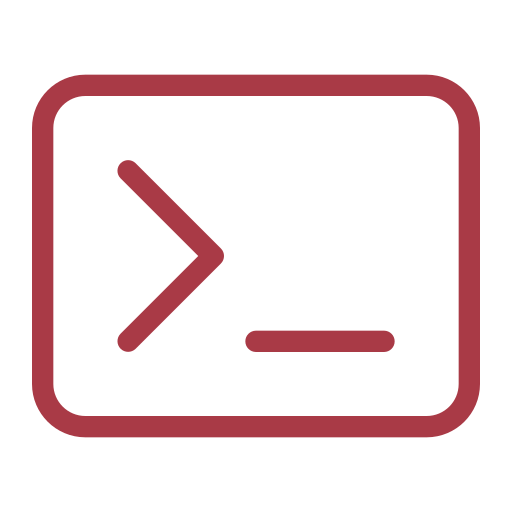
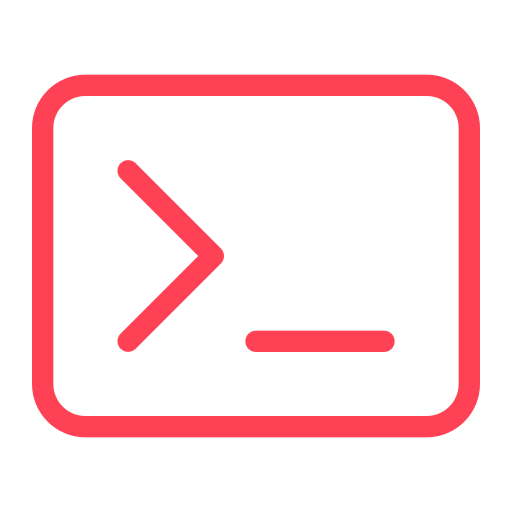
Implementação de um botão para abrir o terminal

Changed region(s): [[0.0625, 0.125, 0.9375, 0.875], [0.2188, 0.3125, 0.4375, 0.6875], [0.4688, 0.625, 0.7812, 0.6875]]

diff --git a/src/components/sidebar.jsx b/src/components/sidebar.jsx
@@ -1,17 +1,19 @@
 import React, {useEffect} from 'react';
 import SideNav, {NavItem, NavIcon, NavText} from '@trendmicro/react-sidenav';
 import '../styles/sidebar.css';
-import playButton from '../assets/playButton.png';
 import {Compiler} from '../services/analyzers/compiler.js'
 import Stack from '@mui/material/Stack';
 import Snackbar from '@mui/material/Snackbar';
 import MuiAlert from '@mui/material/Alert';
+import playButton from '../assets/playButton.png';
+import terminalButton from '../assets/terminal.png';
+
 
 const Alert = React.forwardRef(function Alert(props, ref) {
     return <MuiAlert elevation={6} ref={ref} variant="filled" {...props} />;
 });
 
-export default function Sidebar({openTerminal}) {
+export default function Sidebar({executeCode, openTerminal}) {
     const [open, setOpen] = React.useState(false);
     const [result, setResult] = React.useState({});
     const [message, setMessage] = React.useState('');
@@ -25,7 +27,7 @@ export default function Sidebar({openTerminal}) {
         setMessage(result.message);
 
         if(result.sucess === true)
-            openTerminal(result.executableCode);
+            executeCode(result.executableCode);
 
         handleClick();
     }, [result]);
@@ -46,40 +48,35 @@ export default function Sidebar({openTerminal}) {
         <div>
             <SideNav
                 onSelect={(selected) => {
-                    if (selected === 'home') {
+                    if (selected === 'execute') {
                         setResult(Compiler());
-
+                    }
+                    if (selected === 'terminal') {
+                        openTerminal();
                     }
                 }}
             >
                 <SideNav.Toggle/>
                 <SideNav.Nav>
-                    <NavItem eventKey="home">
-                        <NavIcon>
+
+                    <NavItem eventKey="execute">
+                        <NavIcon style={{display: 'flex', justifyContent: 'center', alignItems: 'center'}}>
                             <img src={playButton} width="20" height="20" alt="play button"/>
                         </NavIcon>
                         <NavText>
                             Executar
                         </NavText>
                     </NavItem>
-                    {/*<NavItem eventKey="charts">*/}
-                    {/*    <NavIcon>*/}
-                    {/*        <i className="fa fa-fw fa-line-chart" style={{ fontSize: '1.75em' }} />*/}
-                    {/*    </NavIcon>*/}
-                    {/*    <NavText>*/}
-                    {/*        TESTE*/}
-                    {/*    </NavText>*/}
-                    {/*    <NavItem eventKey="charts/linechart">*/}
-                    {/*        <NavText>*/}
-                    {/*            Line Chart*/}
-                    {/*        </NavText>*/}
-                    {/*    </NavItem>*/}
-                    {/*    <NavItem eventKey="charts/barchart">*/}
-                    {/*        <NavText>*/}
-                    {/*            Bar Chart*/}
-                    {/*        </NavText>*/}
-                    {/*    </NavItem>*/}
-                    {/*</NavItem>*/}
+
+                    <NavItem eventKey="terminal">
+                        <NavIcon style={{display: 'flex', justifyContent: 'center', alignItems: 'center'}}>
+                            <img src={terminalButton} width="28" height="28" alt="terminal button"/>
+                        </NavIcon>
+                        <NavText>
+                            Abrir terminal
+                        </NavText>
+                    </NavItem>
+
                 </SideNav.Nav>
             </SideNav>
             <Stack spacing={2} sx={{width: '100%'}}>

diff --git a/src/App.js b/src/App.js
@@ -24,8 +24,8 @@ function App() {
 
     window.addEventListener("resize", updateSize);
 
-    // Abre ou fecha o terminal - adequando o tamanho da tela
-    function handleTerminal(message){
+    // Abre ou fecha o terminal e executa o código - adequando o tamanho da tela
+    function executeCode(message){
         if(message !== undefined){
             setExecutedCode(message);
             setTerminalHeight((height / 3) + 150)
@@ -35,6 +35,12 @@ function App() {
             setTerminalHeight(0)
             setOpenTerminal(false);
         }
+    }
+
+    // Abre ou fecha o terminal sem executar o código - adequando o tamanho da tela
+    function handleTerminal(){
+        setTerminalHeight((height / 3) + 150)
+        setOpenTerminal(true);
     }
 
     return (
@@ -47,13 +53,13 @@ function App() {
             position: 'absolute'
         }}>
             <div>
-                <Sidebar openTerminal={handleTerminal}/>
+                <Sidebar executeCode={executeCode} openTerminal={handleTerminal}/>
             </div>
 
             <div style={{marginLeft: 64}}>
                 <Header />
                 <CodeEditor height={height - terminalHeight} width={width}/>
-                {openTerminal ? <InOut height={terminalHeight} width={width} closeTerminal={handleTerminal} executableCode={executedCode}/> : null}
+                {openTerminal ? <InOut height={terminalHeight} width={width} closeTerminal={executeCode} executableCode={executedCode}/> : null}
             </div>
 
         </div>

diff --git a/src/services/analyzers/compiler.js b/src/services/analyzers/compiler.js
@@ -68,6 +68,7 @@ function exportExecutableCode(code) {
 
     tokens.forEach(token => {
         if (token !== '' && !getKnownDefinitions().includes(token)) {
+            // se for concatenação, retorna um array de "escrevas" na tela
             if(token.startsWith('escreva') && token.indexOf(",") !== -1) {
                 const newObject = dismemberEscrevaConcat(token);
                 newObject.forEach(object => {
@@ -82,6 +83,7 @@ function exportExecutableCode(code) {
     return executableCode;
 }
 
+// retorna um array de tokens para escrever na tela quando for concatenação
 function dismemberEscrevaConcat(object){
     const name = object.substring(object.indexOf('(') + 1, object.lastIndexOf(')'));
     const parts = name.split(',');

diff --git a/src/services/analyzers/executor.js b/src/services/analyzers/executor.js
@@ -1,4 +1,3 @@
-import {useState} from "react";
 import {ExecutableActionType} from "./definitions/actionTypes";
 
 //
